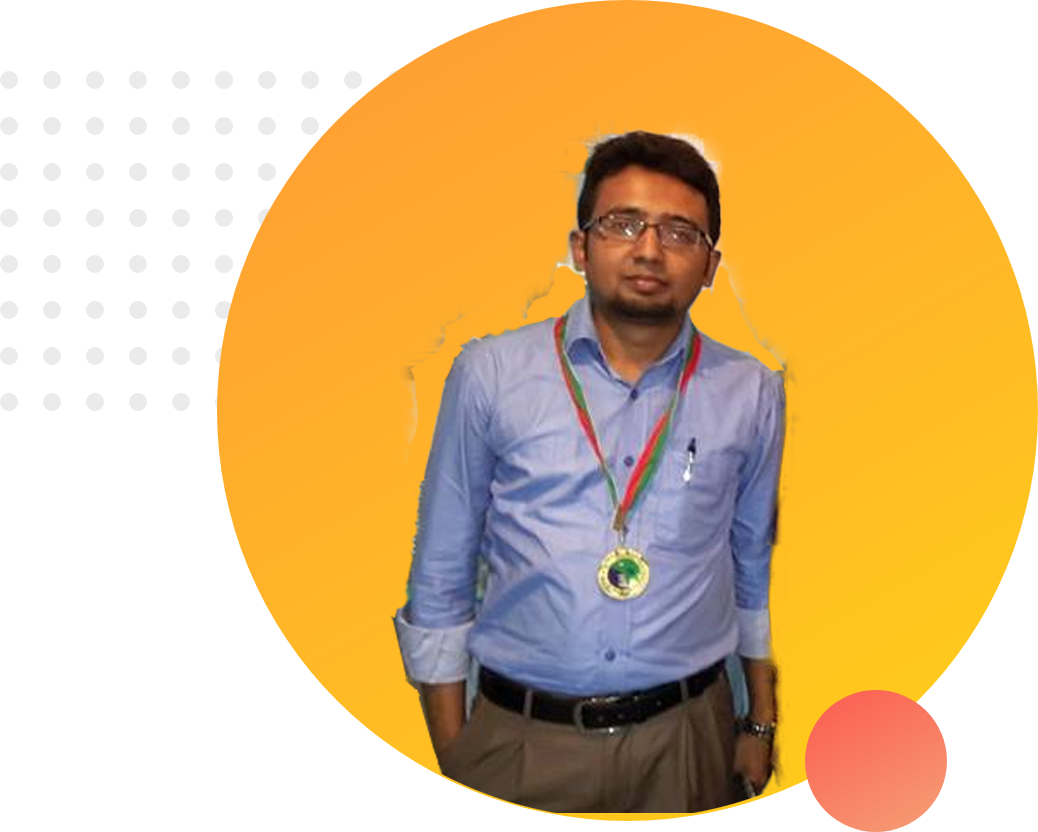
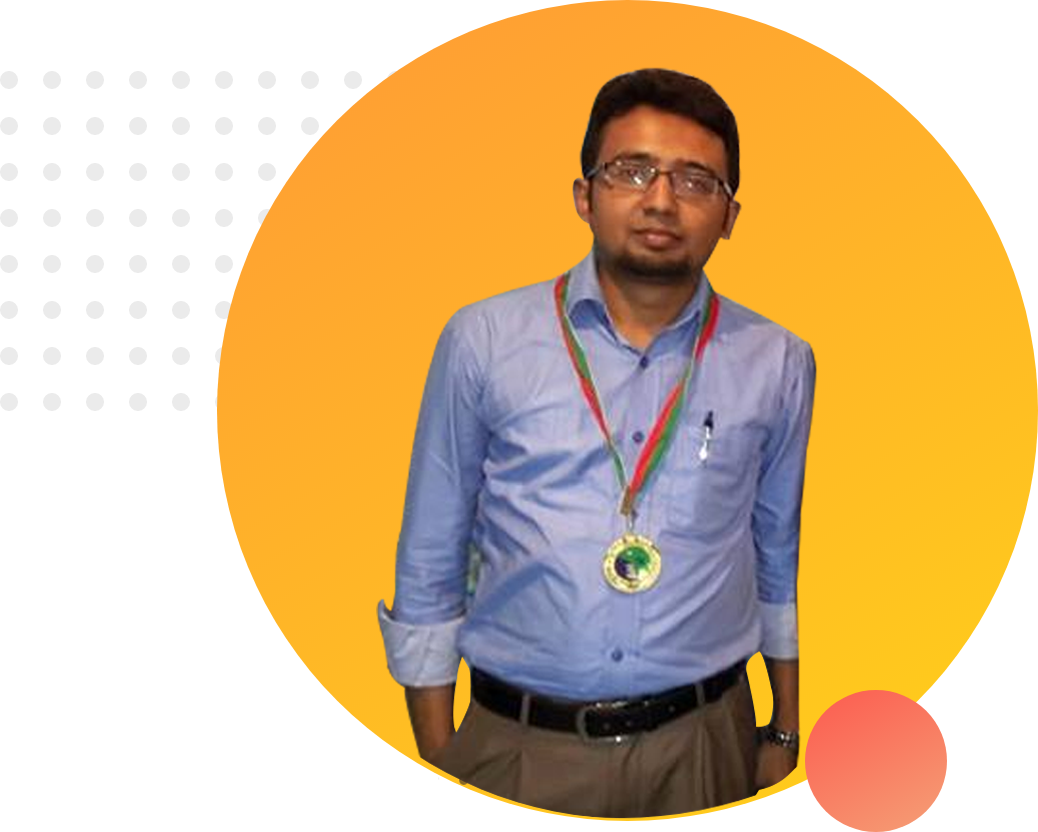
Top part complete

Changed region(s): [[0.3391, 0.0625, 0.8015, 1.0]]

diff --git a/intdex.html b/intdex.html
@@ -11,7 +11,7 @@
     <link rel="stylesheet" href="style.css" />
   </head>
   <body>
-    <section>
+    <section class="top-banner">
       <div class="half-width">
         <h1>Welcome to</h1>
         <h1><span class="name-highlight">Nizam's</span> Website</h1>
@@ -22,6 +22,12 @@
           in order to develop my career and as well as to contribute in the
           welfare the organization.
         </p>
+        <a
+          class="link-button"
+          target="_blank"
+          href="https://www.linkedin.com/in/mn754/?originalSubdomain=bd"
+          >HIRE ME</a
+        >
       </div>
       <div class="half-width">
         <img src="images/profile1.png" alt="" />

diff --git a/style.css b/style.css
@@ -1,14 +1,13 @@
 body {
+  margin: 0;
   font-family: "Poppins";
 }
 h1 {
   font-size: 50px;
 }
-
 .name-highlight {
   color: orange;
 }
-
 .half-width {
   width: 40%;
   float: left;
@@ -17,4 +16,19 @@ h1 {
 }
 .half-width img {
   width: 100%;
+}
+.top-banner {
+  background-image: url("images/top-banner.png");
+  background-repeat: no-repeat;
+}
+section {
+  height: 500px;
+}
+.link-button {
+  text-decoration: none;
+  background-image: linear-gradient(45deg, lightsalmon, tomato);
+  padding: 10px 20px;
+  border-radius: 5px;
+  color: white;
+  font-weight: 700;
 }
